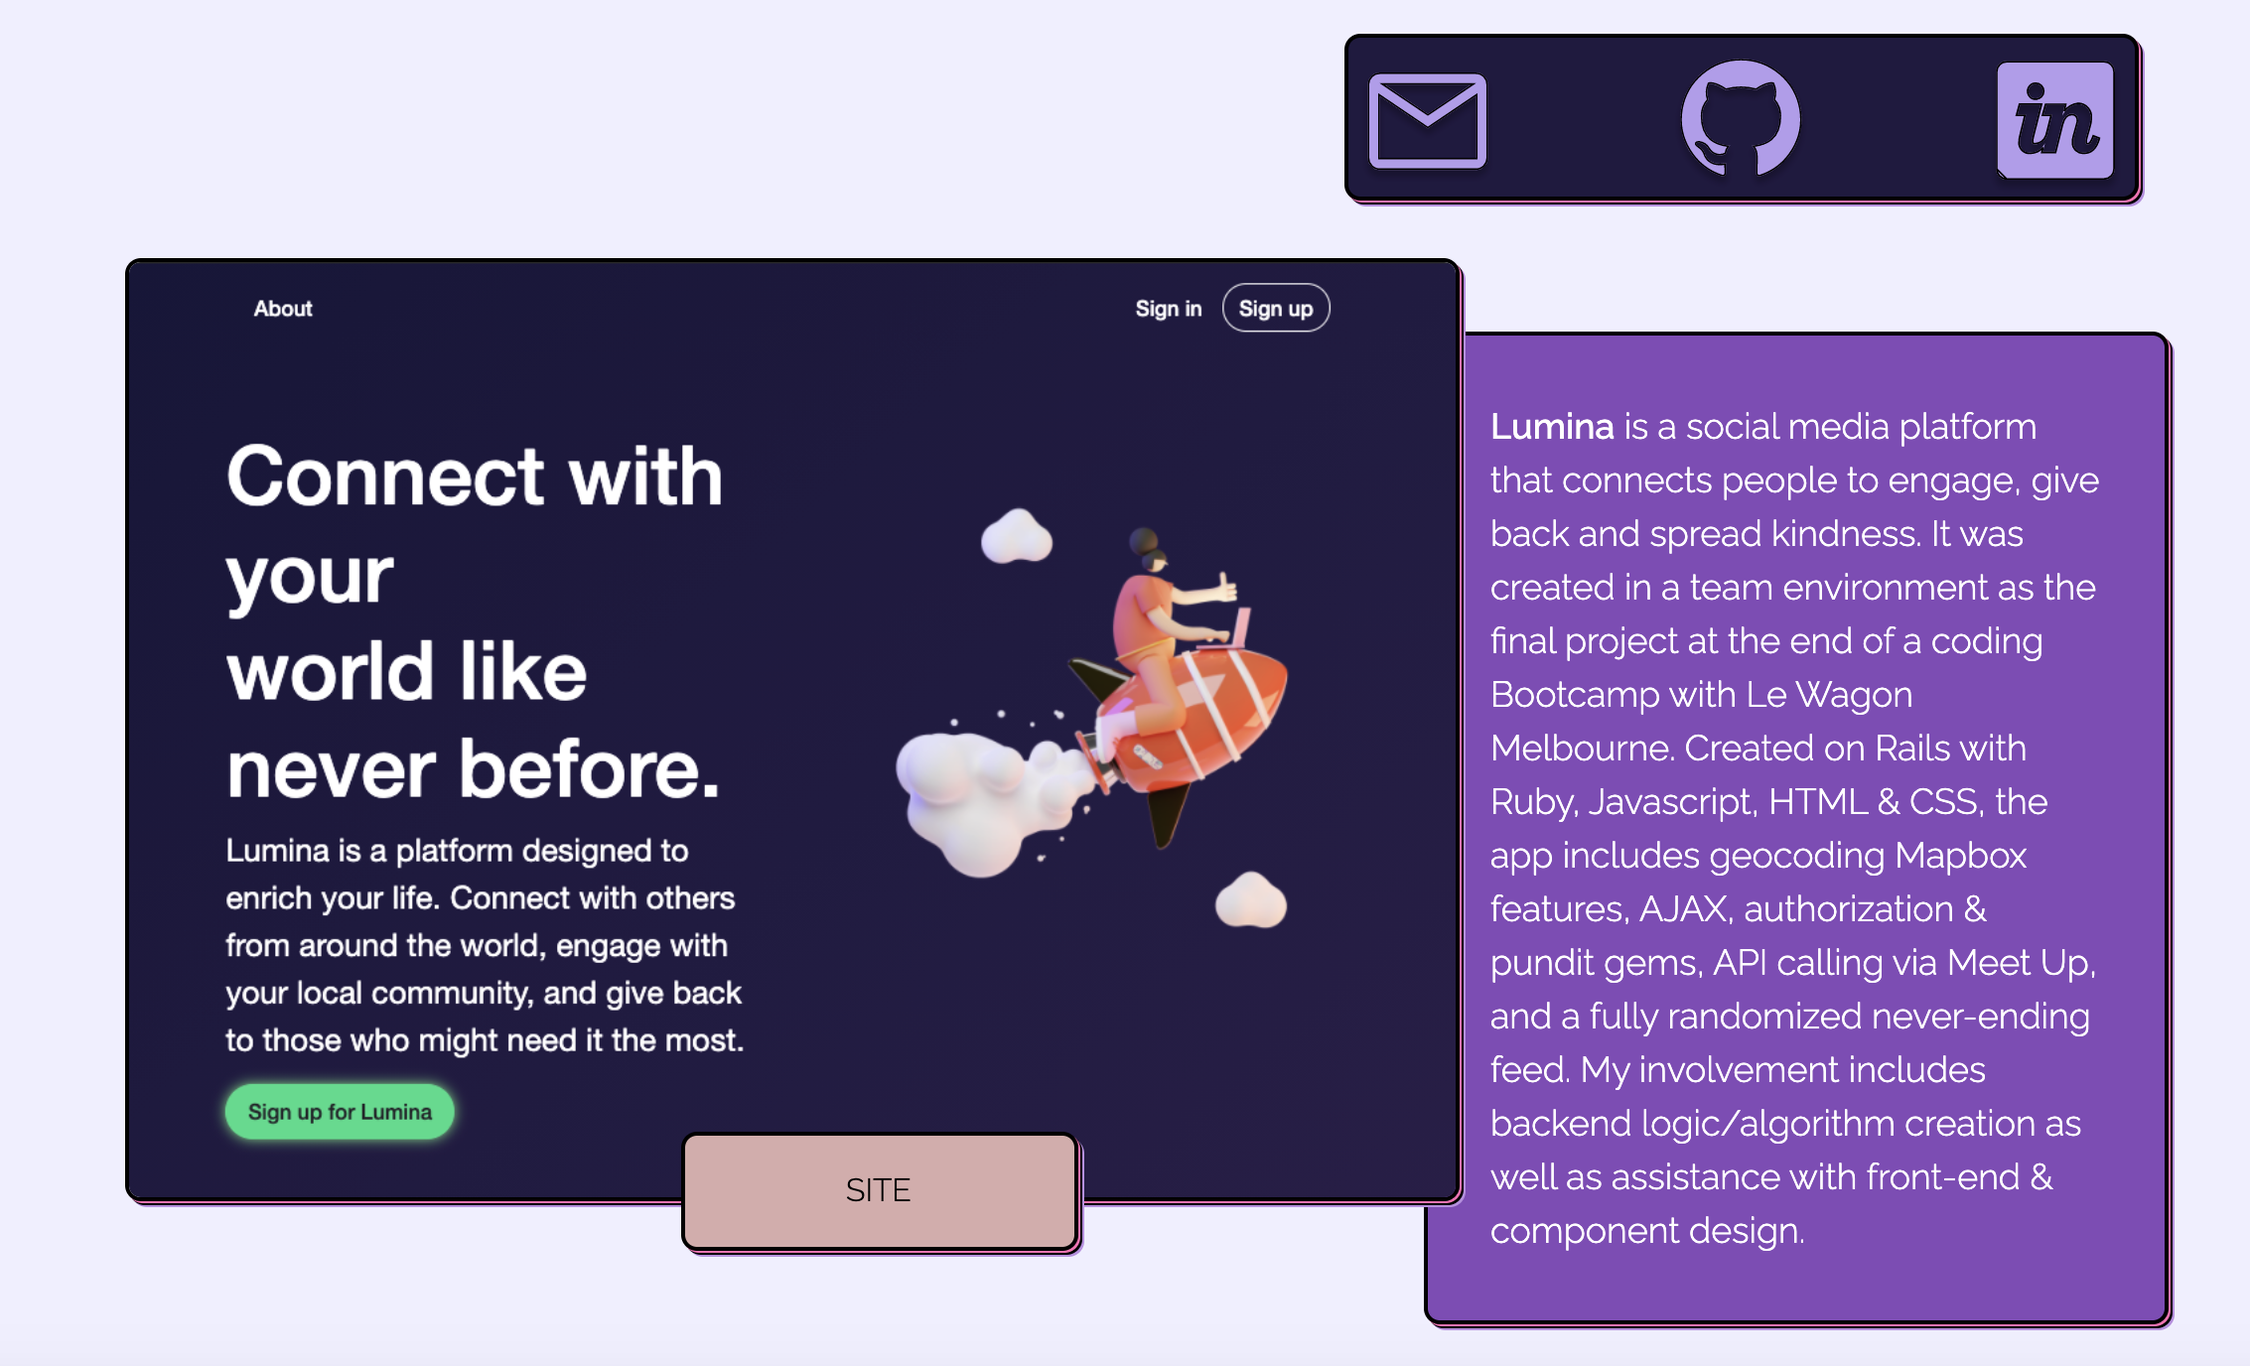
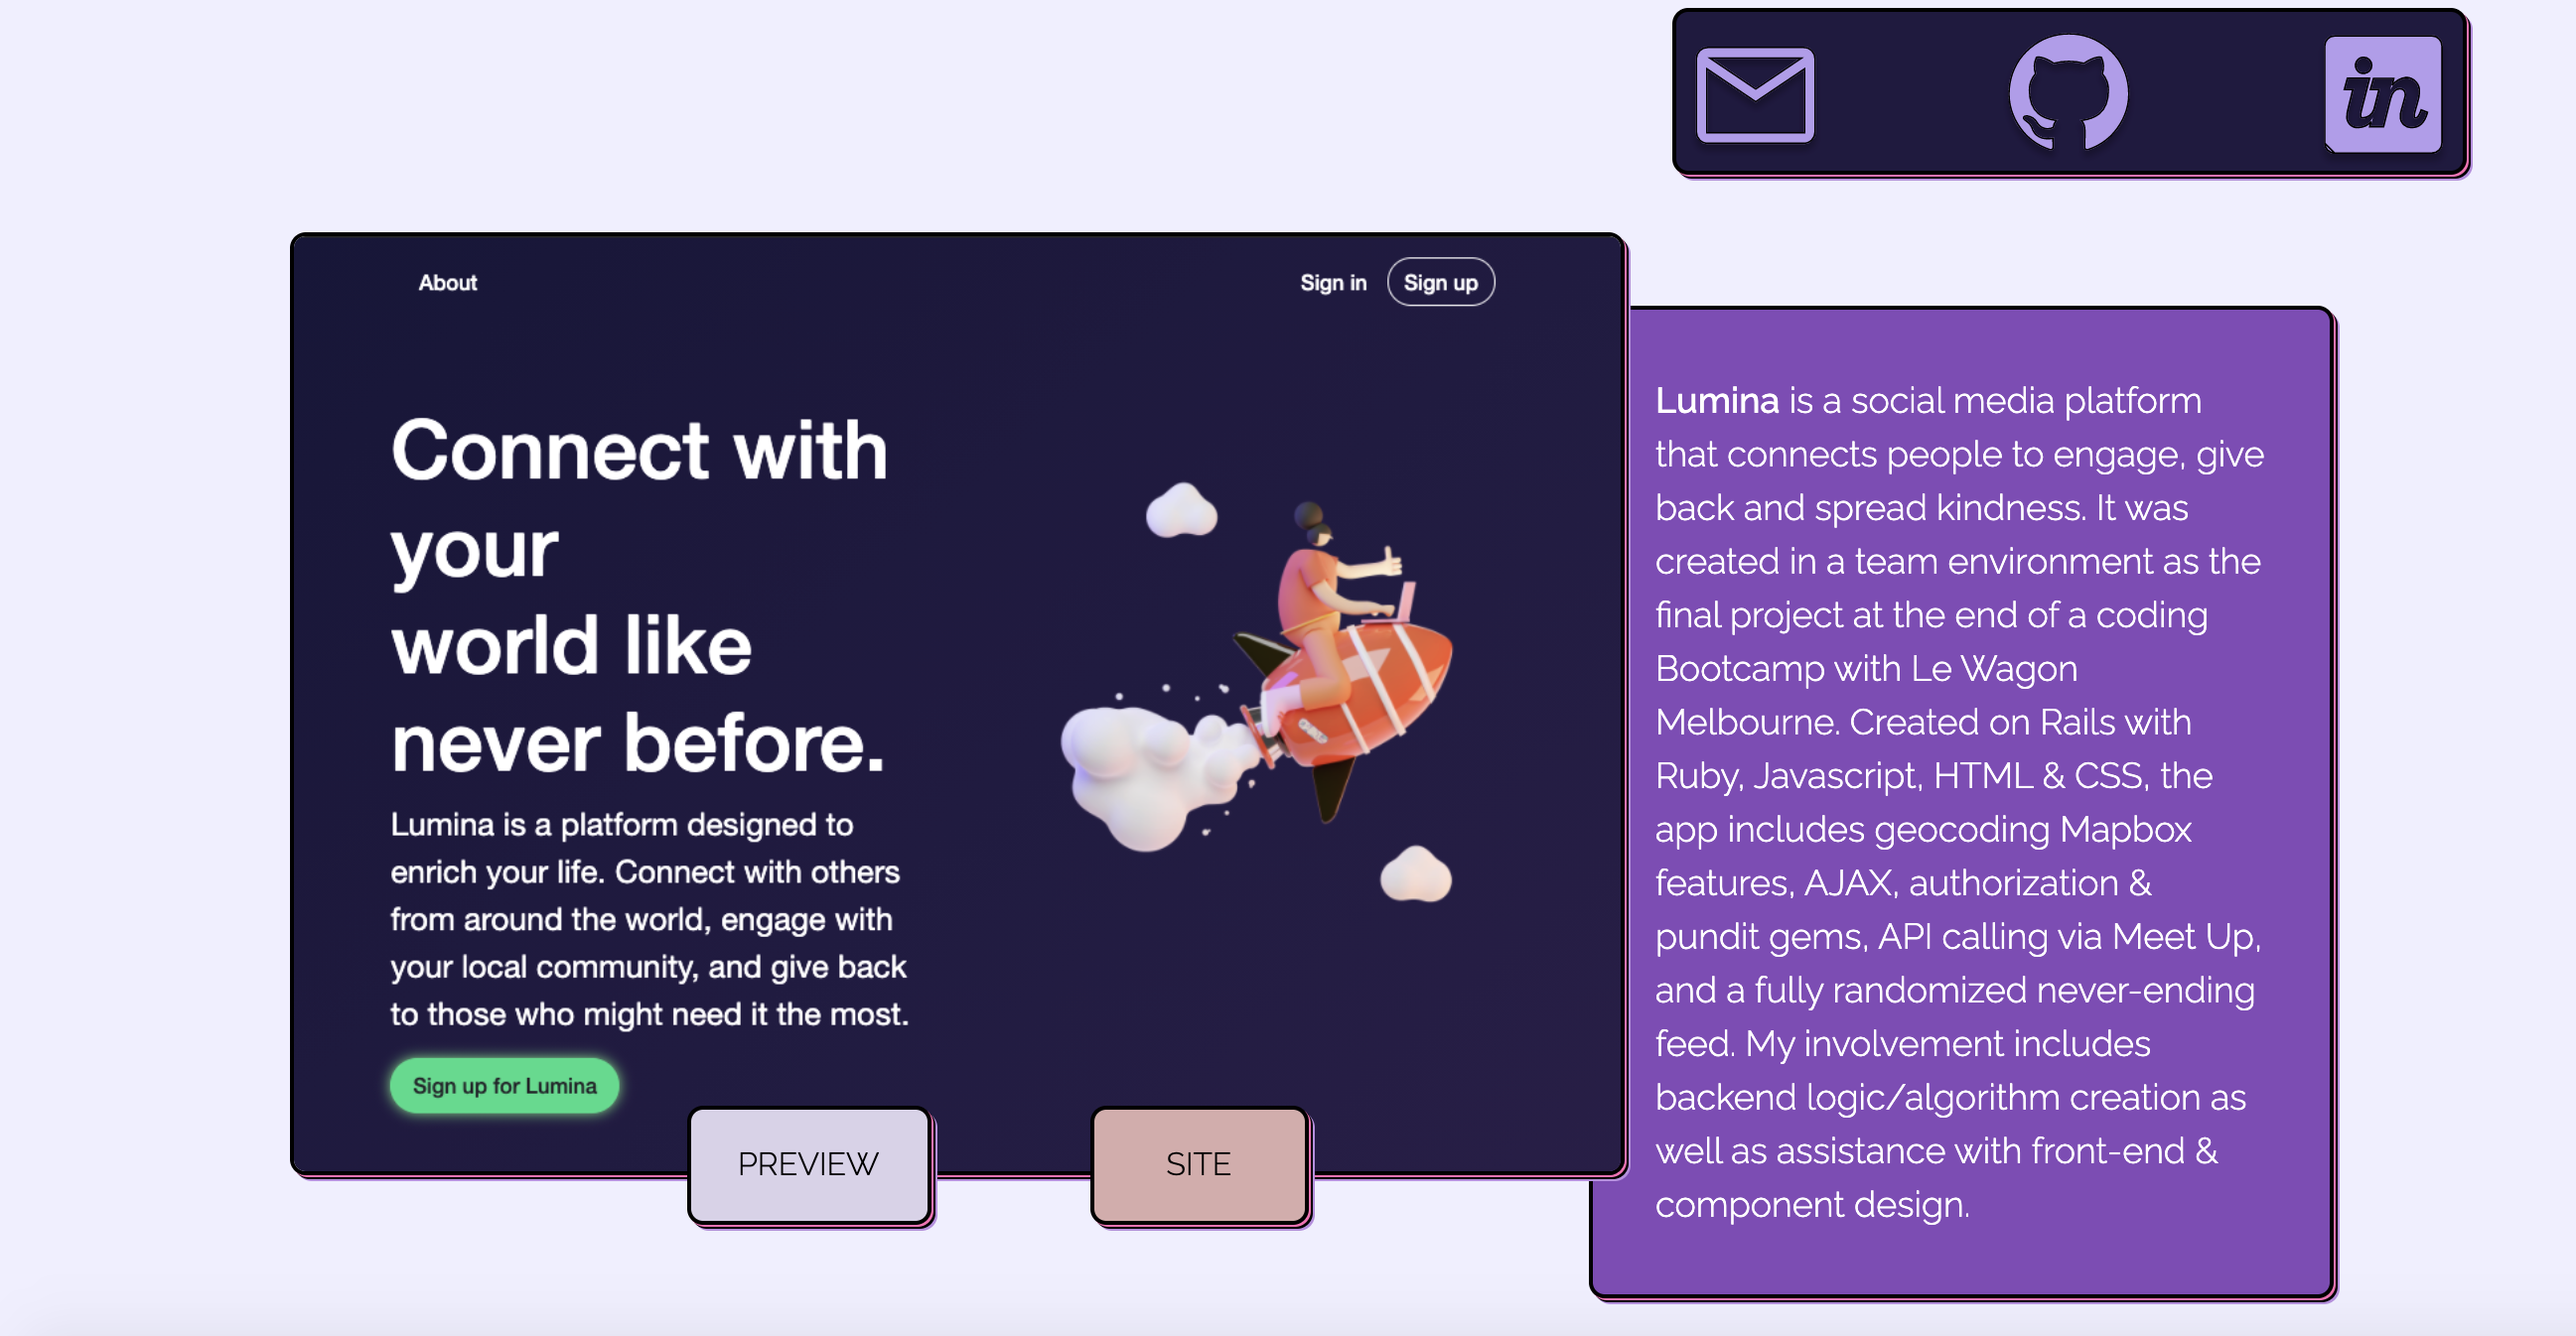
updated README

Changed region(s): [[0.0309, 0.0, 0.9885, 0.9985], [0.4016, 0.3432, 0.5869, 0.6553], [0.5252, 0.6241, 0.5869, 0.6865]]

diff --git a/README.md b/README.md
@@ -1,7 +1,7 @@
 # README
 # My Portfolio Page
 
-Have a look at the code to my portfolio page. I decided to make a single page with all my recent projects in them. I wanted to be a little different with the design and give it personality. 
+Have a look at the code to my portfolio page, a single flowing page.
 
 ![UI - Home](docs/home.png)
 
@@ -16,7 +16,7 @@ Ruby on Rails, Javascript, HTML & CSS.
 
 ## Setup
 
-If you would like to look at the code then clone the GitHub repository and change directory into `lumina`:
+If you would like to look at the code then clone the GitHub repository and change directory into `the-real-portfolio`:
 ```
 gh repo clone Tom-Tee/the-real-portfolio
 ```
@@ -36,18 +36,23 @@ You will see the beginning to the page where you can automatically jump to certa
 Have a scroll down and you can see my projects.
 
 Here are just a couple:
-##lumina
+
+## lumina
 
 ![UI - lumina](docs/lumina.png)
 
-##article lounge
+Each project has a modal to preview content and a link to the project.
+
+![UI - lumina](docs/modal.png)
+
+## article lounge
 
 ![UI - article](docs/article.png)
 
-Have a look at my skills section too;
+## My skills
 
 ![UI - article](docs/skills.png)
 
-The site is also fully responsive for different desktop sizes.
+The site is *fully responsive* for different desktop sizes.
 
 ![UI - response](docs/response.png)
